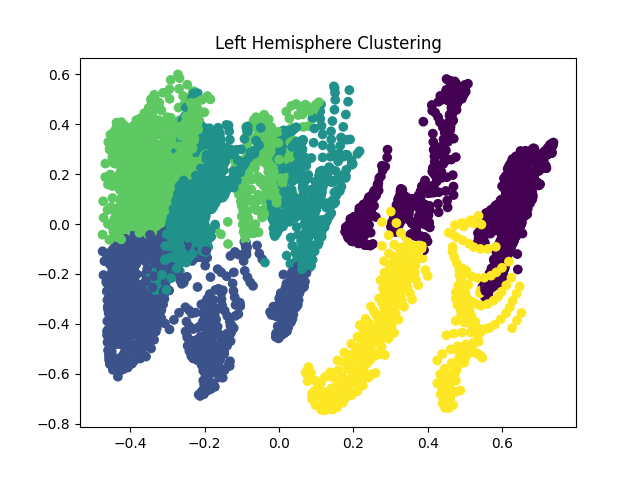
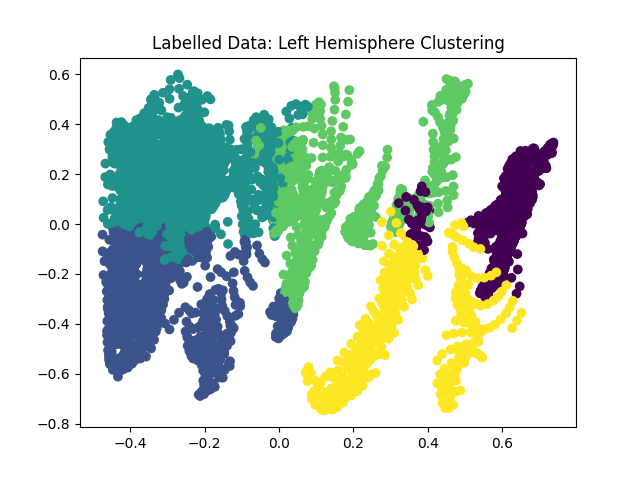
Split labelled and unlabelled data

diff --git a/machine_learning/clustering.py b/machine_learning/clustering.py
@@ -22,7 +22,7 @@ def display_clusters(X, y, plot_title, filename):
     # find best characteristics (normalized) to show clustering with
     Xl_pca = pca_model.fit_transform(X)
     Xl_pca_df = pd.DataFrame(Xl_pca)
-    print(Xl_pca_df)
+    #print(Xl_pca_df)
     model = make_pipeline(
         MinMaxScaler(),
         KMeans(n_clusters=5) # 5 labels
@@ -30,11 +30,12 @@ def display_clusters(X, y, plot_title, filename):
 
     model.fit(X)
     clusters = model.predict(X)
-    print(clusters)
+    #print(clusters)
     #plt.scatter(X2[:, 0], X2[:, 1], c=clusters)
     plt.scatter(Xl_pca_df.iloc[:, 0], Xl_pca_df.iloc[:, 1], c=clusters)
     plt.title(plot_title)
     plt.savefig("outputs/ml_results/" + filename)
+    plt.clf()
 
 
 left_hemisphere = pd.read_csv("left_right_dataframes/left_hemisphere.csv")
@@ -50,9 +51,9 @@ right_hemisphere = right_hemisphere.drop(right_hemisphere.columns[0], axis=1)
 left_hemisphere = left_hemisphere.drop(['corrected_thickness', 'smoothed_myelin_map'], axis=1)
 right_hemisphere = right_hemisphere.drop(['corrected_thickness', 'smoothed_myelin_map'], axis=1)
 
-print(left_hemisphere)
-print(right_hemisphere)
-print(parcellation)
+# print(left_hemisphere)
+# print(right_hemisphere)
+# print(parcellation)
 
 # 5 clusters for 5 main groupings
 #model = KMeans(n_clusters=5)
@@ -61,12 +62,24 @@ print(parcellation)
 # add 5 main group labels
 left_labelled = pd.merge(left_hemisphere, parcellation, left_on='group_num', right_on=' group_num', how='inner').reset_index()
 right_labelled = pd.merge(right_hemisphere, parcellation, left_on='group_num', right_on=' group_num', how='inner').reset_index()
-print("Result:")
+#print("Result:")
 left_labelled = left_labelled[['parcellation', 'group_num', 'curvature', 'myelin_map', 'sulcal_depth', 'thickness']]
 right_labelled = right_labelled[['parcellation', 'group_num', 'curvature', 'myelin_map', 'sulcal_depth', 'thickness']]
 
 print(left_labelled)
 print(right_labelled)
+
+# get groups, remove duplicates: https://www.w3schools.com/python/pandas/ref_df_drop_duplicates.asp
+left_groups = left_labelled['group_num'].drop_duplicates()
+right_groups = right_labelled['group_num'].drop_duplicates()
+# print(left_groups)
+# print(right_groups)
+
+# remove all groupings not in left_labelled and right_labelled to get all unlabelled data.
+left_unlabelled = left_hemisphere[~left_hemisphere['group_num'].isin(left_groups)]
+right_unlabelled = right_hemisphere[~right_hemisphere['group_num'].isin(right_groups)]
+print(left_unlabelled)
+print(right_unlabelled)
 
 # now get unlabelled data to fit model to: all vertices that aren't in this subset
 
@@ -81,5 +94,5 @@ X_right = right_labelled.drop(['parcellation'], axis=1)
 y_right = right_labelled['parcellation']
 
 # train model and run independently on left and right hemisphere data
-display_clusters(X_left, y_left, "Left Hemisphere Clustering", "left_hemisphere_clustering")
-display_clusters(X_right, y_right, "Right Hemisphere Clustering", "right_hemisphere_clustering")
+display_clusters(X_left, y_left, "Labelled Data: Left Hemisphere Clustering", "left_hemisphere_clustering")
+display_clusters(X_right, y_right, "Labelled Data: Right Hemisphere Clustering", "right_hemisphere_clustering")
